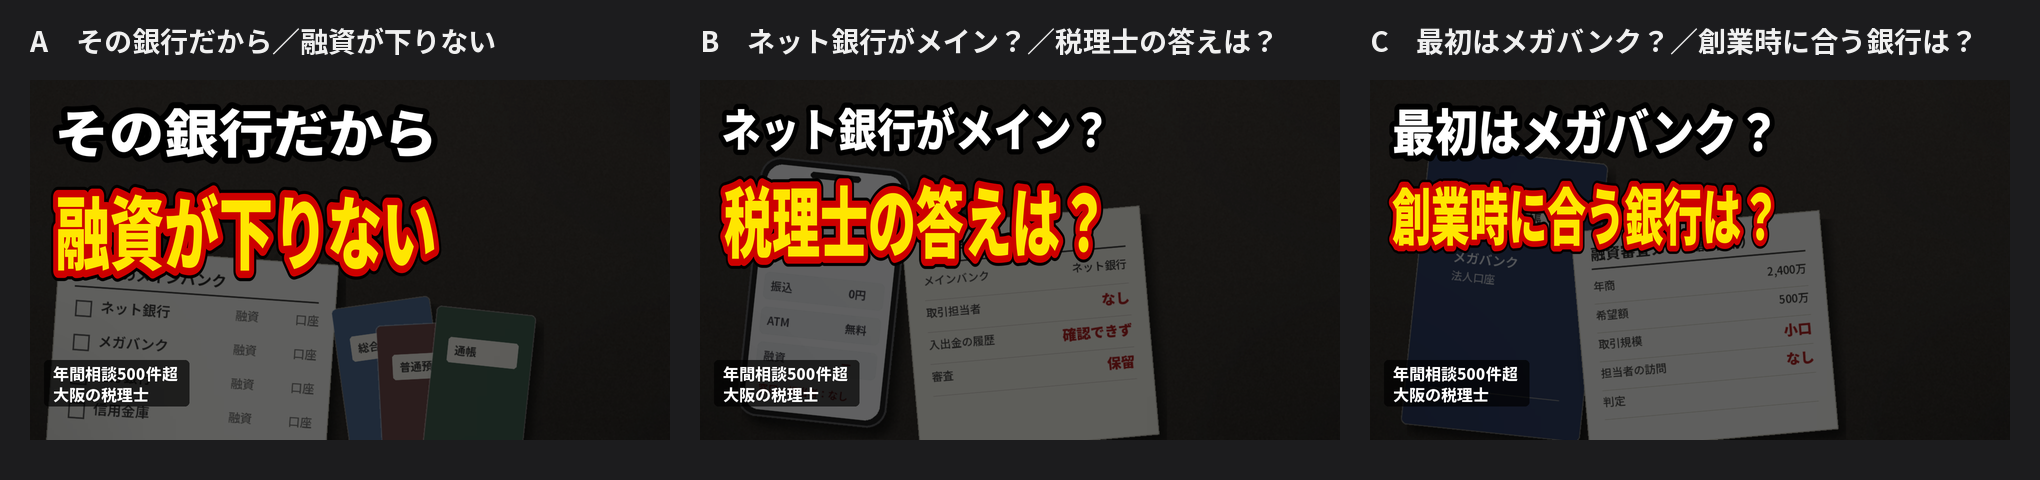
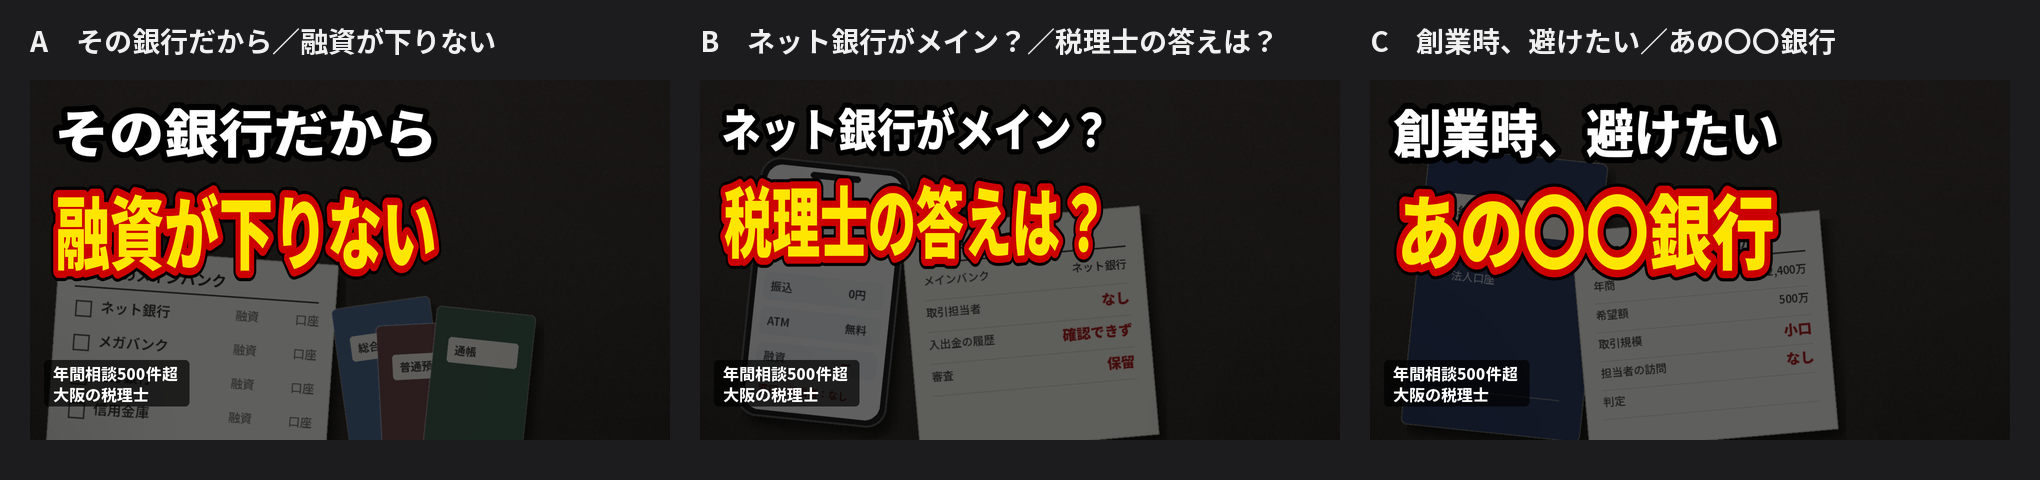
Actvision: 銀行5選サムネCをTak決定の文言（創業時、避けたい／あの〇〇銀行）に差し替え、コンタクトシート更新
Claude-Session: https://claude.ai/code/session_01DHBSnLSCJvtnYECMcaMvR9

Changed region(s): [[0.6794, 0.375, 0.8956, 0.5938], [0.6794, 0.2188, 0.8956, 0.3438], [0.6794, 0.0625, 0.9882, 0.125]]

diff --git a/clients/Actvision/thumbs/ginko5/gen_thumb_ginko5.py b/clients/Actvision/thumbs/ginko5/gen_thumb_ginko5.py
@@ -255,7 +255,7 @@ def text_layer3(l1segs,l2segs,gap=16):
 FINAL={
  "A":dict(scene=scene_A,l1=[("その銀行だから",WHT,BLK)],l2=[("融資が下りない",YEL,RED_S)]),
  "B":dict(scene=scene_B,l1=[("ネット銀行がメイン？",WHT,BLK)],l2=[("税理士の答えは？",YEL,RED_S)]),
- "C":dict(scene=scene_C,l1=[("最初はメガバンク？",WHT,BLK)],l2=[("創業時に合う銀行は？",YEL,RED_S)]),
+ "C":dict(scene=scene_C,l1=[("創業時、避けたい",WHT,BLK)],l2=[("あの〇〇銀行",YEL,RED_S)]),
 }
 outs={}
 for k,sp in FINAL.items():
